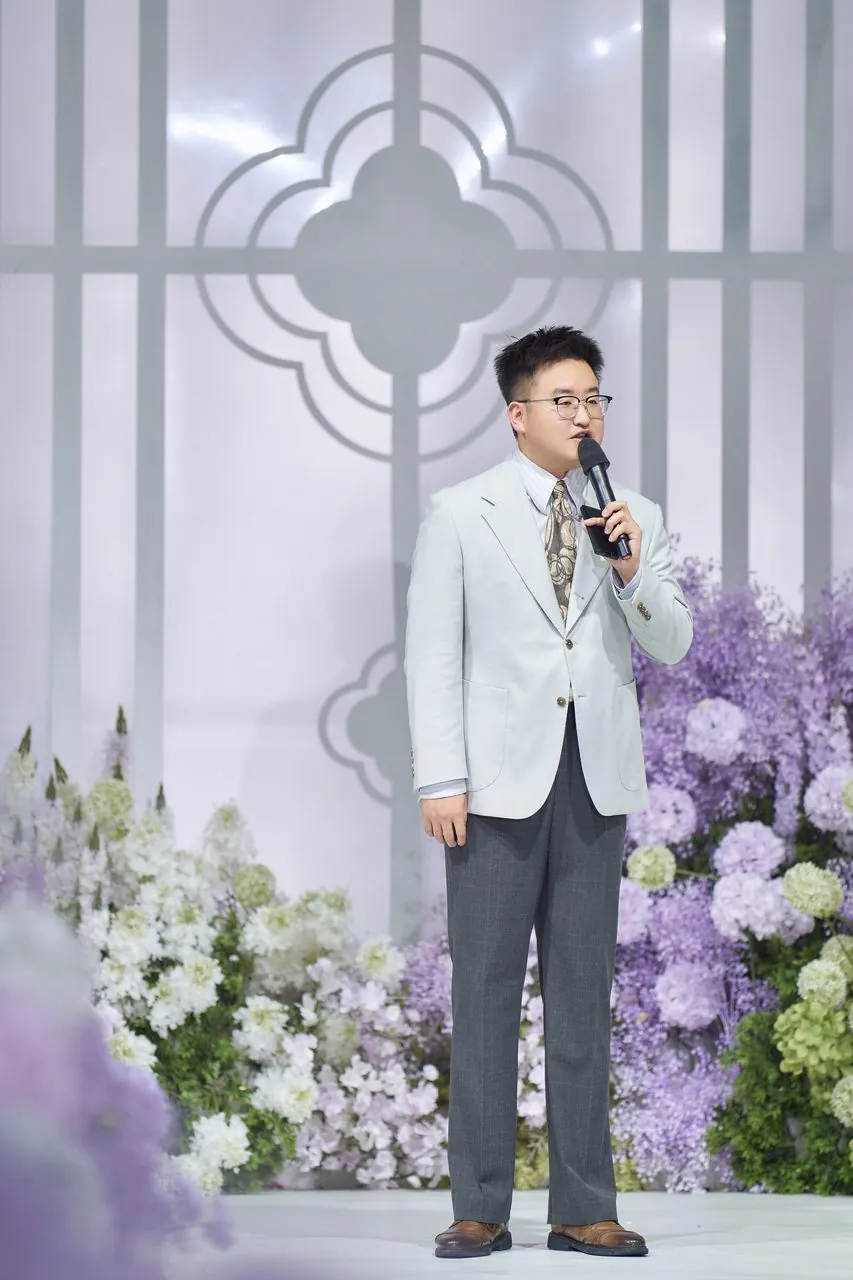
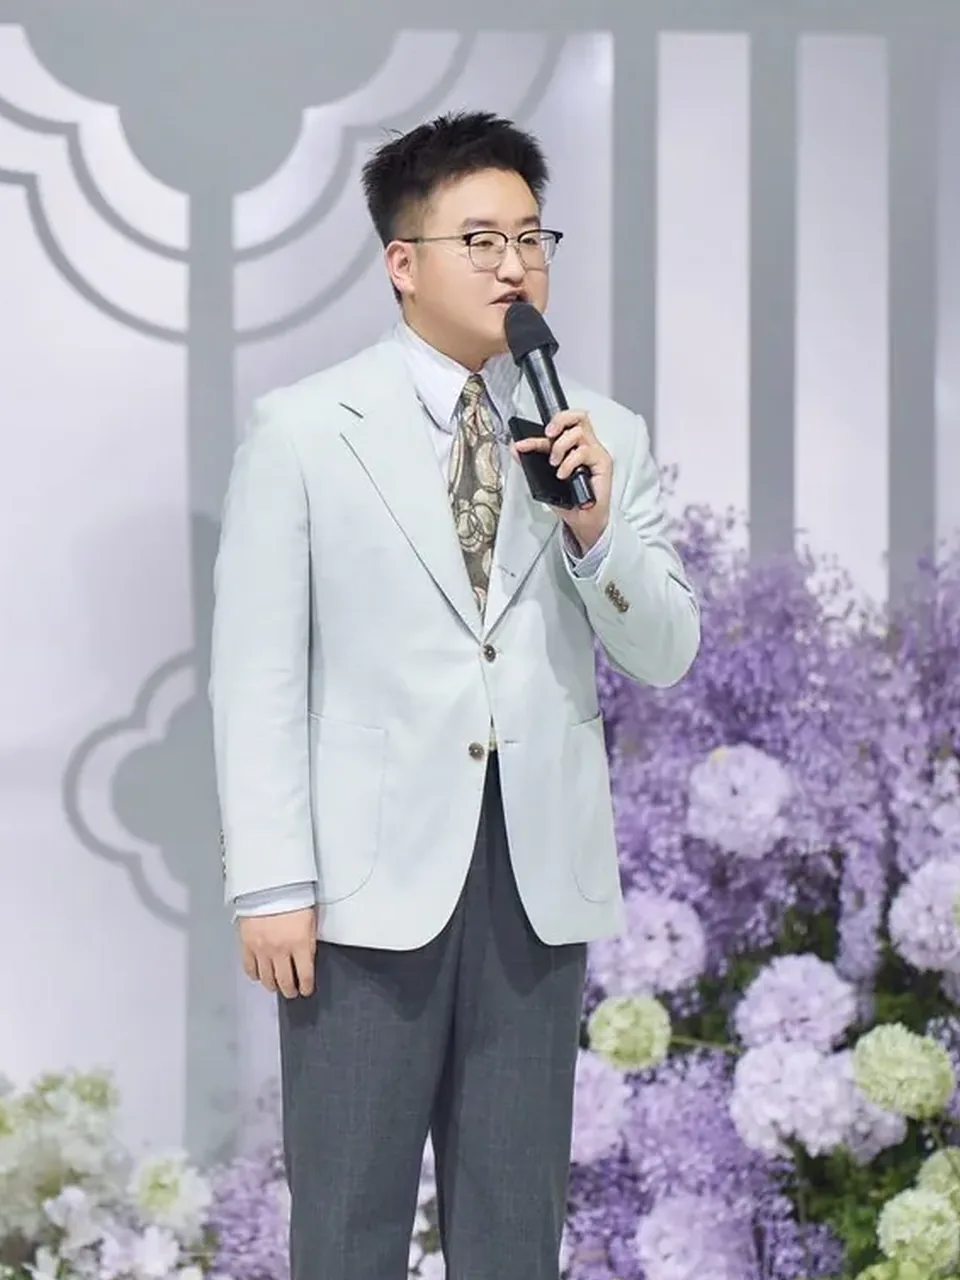
调整千钧/刘轩/王磊卡片图为人物居中构图，同步首页及二级页，移除CSS偏移样式

diff --git a/index.html b/index.html
@@ -587,7 +587,7 @@ body {
     <!-- Host 7: 刘轩 -->
     <a class="host-card" href="host-liuxuan.html">
       <div class="host-photo">
-        <img src="https://cdn.jsdelivr.net/gh/YaNan-Ayn/yanan-host@main/images/members/liuxuan/home.webp?v=2" alt="主持人刘轩" style="width:100%;height:100%;object-fit:cover;object-position:64% 50%;">
+        <img src="https://cdn.jsdelivr.net/gh/YaNan-Ayn/yanan-host@main/images/members/liuxuan/home.webp?v=3" alt="主持人刘轩" style="width:100%;height:100%;object-fit:cover;">
       </div>
       <div class="host-info">
         <div class="host-name">刘轩</div>
@@ -618,7 +618,7 @@ body {
     <!-- Host 9: 千钧 -->
     <a class="host-card" href="host-qianjun.html">
       <div class="host-photo">
-        <img src="https://cdn.jsdelivr.net/gh/YaNan-Ayn/yanan-host@main/images/members/qianjun/home.webp?v=2" alt="主持人千钧" style="width:100%;height:100%;object-fit:cover;transform:translate(-12.8%,14.5%) scale(1.28);">
+        <img src="https://cdn.jsdelivr.net/gh/YaNan-Ayn/yanan-host@main/images/members/qianjun/home.webp?v=3" alt="主持人千钧" style="width:100%;height:100%;object-fit:cover;">
       </div>
       <div class="host-info">
         <div class="host-name">千钧</div>
@@ -633,7 +633,7 @@ body {
     <!-- Host 10: 王磊 -->
     <a class="host-card" href="host-wanglei.html">
       <div class="host-photo">
-        <img src="https://cdn.jsdelivr.net/gh/YaNan-Ayn/yanan-host@main/images/members/wanglei/home.webp?v=2" alt="主持人王磊" style="width:100%;height:100%;object-fit:cover;object-position:50% 20%;">
+        <img src="https://cdn.jsdelivr.net/gh/YaNan-Ayn/yanan-host@main/images/members/wanglei/home.webp?v=3" alt="主持人王磊" style="width:100%;height:100%;object-fit:cover;">
       </div>
       <div class="host-info">
         <div class="host-name">王磊</div>

diff --git a/business.html b/business.html
@@ -357,7 +357,7 @@ body {
         </a>
     <a class="host-card" href="host-liuxuan.html">
           <div class="host-photo">
-            <img src="https://cdn.jsdelivr.net/gh/YaNan-Ayn/yanan-host@main/images/members/liuxuan/home.webp?v=2" alt="主持人刘轩" style="width:100%;height:100%;object-fit:cover;">
+            <img src="https://cdn.jsdelivr.net/gh/YaNan-Ayn/yanan-host@main/images/members/liuxuan/home.webp?v=3" alt="主持人刘轩" style="width:100%;height:100%;object-fit:cover;">
           </div>
           <div class="host-info">
             <div class="host-name">刘轩</div>
@@ -396,7 +396,7 @@ body {
   <div class="host-grid">
     <a class="host-card" href="host-qianjun.html">
           <div class="host-photo">
-            <img src="https://cdn.jsdelivr.net/gh/YaNan-Ayn/yanan-host@main/images/members/qianjun/home.webp?v=2" alt="主持人千钧" style="width:100%;height:100%;object-fit:cover;">
+            <img src="https://cdn.jsdelivr.net/gh/YaNan-Ayn/yanan-host@main/images/members/qianjun/home.webp?v=3" alt="主持人千钧" style="width:100%;height:100%;object-fit:cover;">
           </div>
           <div class="host-info">
             <div class="host-name">千钧</div>
@@ -410,7 +410,7 @@ body {
         </a>
     <a class="host-card" href="host-wanglei.html">
           <div class="host-photo">
-            <img src="https://cdn.jsdelivr.net/gh/YaNan-Ayn/yanan-host@main/images/members/wanglei/home.webp?v=2" alt="主持人王磊" style="width:100%;height:100%;object-fit:cover;">
+            <img src="https://cdn.jsdelivr.net/gh/YaNan-Ayn/yanan-host@main/images/members/wanglei/home.webp?v=3" alt="主持人王磊" style="width:100%;height:100%;object-fit:cover;">
           </div>
           <div class="host-info">
             <div class="host-name">王磊</div>

diff --git a/western.html b/western.html
@@ -382,7 +382,7 @@ body {
     <!-- Host 7: 刘轩 -->
     <a class="host-card" href="host-liuxuan.html">
       <div class="host-photo">
-        <img src="https://cdn.jsdelivr.net/gh/YaNan-Ayn/yanan-host@main/images/members/liuxuan/home.webp?v=2" alt="主持人刘轩" style="width:100%;height:100%;object-fit:cover;">
+        <img src="https://cdn.jsdelivr.net/gh/YaNan-Ayn/yanan-host@main/images/members/liuxuan/home.webp?v=3" alt="主持人刘轩" style="width:100%;height:100%;object-fit:cover;">
       </div>
       <div class="host-info">
         <div class="host-name">刘轩</div>
@@ -424,7 +424,7 @@ body {
     <!-- Host 9: 千钧 -->
     <a class="host-card" href="host-qianjun.html">
       <div class="host-photo">
-        <img src="https://cdn.jsdelivr.net/gh/YaNan-Ayn/yanan-host@main/images/members/qianjun/home.webp?v=2" alt="主持人千钧" style="width:100%;height:100%;object-fit:cover;">
+        <img src="https://cdn.jsdelivr.net/gh/YaNan-Ayn/yanan-host@main/images/members/qianjun/home.webp?v=3" alt="主持人千钧" style="width:100%;height:100%;object-fit:cover;">
       </div>
       <div class="host-info">
         <div class="host-name">千钧</div>
@@ -440,7 +440,7 @@ body {
     <!-- Host 10: 王磊 -->
     <a class="host-card" href="host-wanglei.html">
       <div class="host-photo">
-        <img src="https://cdn.jsdelivr.net/gh/YaNan-Ayn/yanan-host@main/images/members/wanglei/home.webp?v=2" alt="主持人王磊" style="width:100%;height:100%;object-fit:cover;">
+        <img src="https://cdn.jsdelivr.net/gh/YaNan-Ayn/yanan-host@main/images/members/wanglei/home.webp?v=3" alt="主持人王磊" style="width:100%;height:100%;object-fit:cover;">
       </div>
       <div class="host-info">
         <div class="host-name">王磊</div>

diff --git a/chinese.html b/chinese.html
@@ -343,7 +343,7 @@ body {
         </a>
     <a class="host-card" href="host-liuxuan.html">
           <div class="host-photo">
-            <img src="https://cdn.jsdelivr.net/gh/YaNan-Ayn/yanan-host@main/images/members/liuxuan/home.webp?v=2" alt="主持人刘轩" style="width:100%;height:100%;object-fit:cover;">
+            <img src="https://cdn.jsdelivr.net/gh/YaNan-Ayn/yanan-host@main/images/members/liuxuan/home.webp?v=3" alt="主持人刘轩" style="width:100%;height:100%;object-fit:cover;">
           </div>
           <div class="host-info">
             <div class="host-name">刘轩</div>
